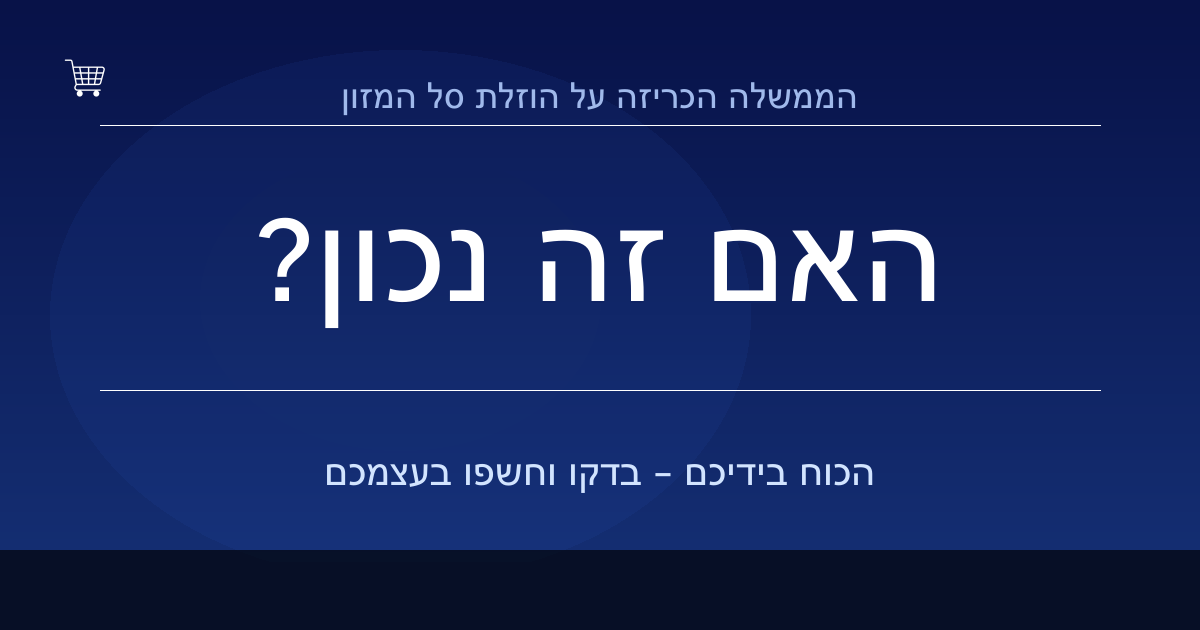
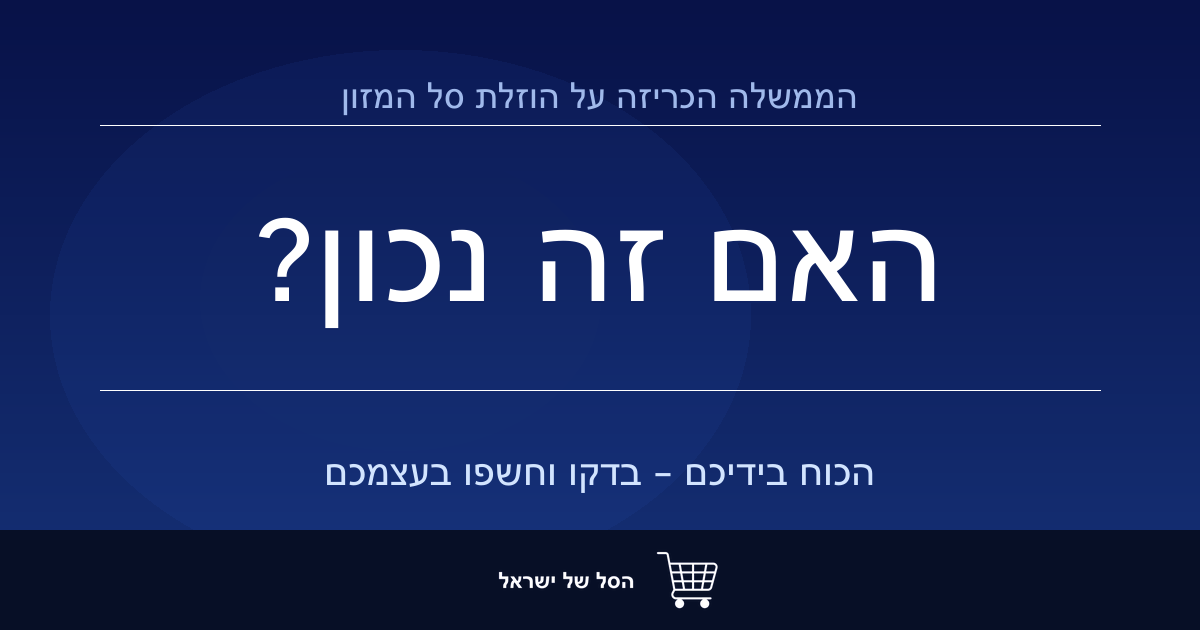
feat: pre-select Israel Basket account in analytics iframe via params

Changed region(s): [[0.0, 0.8143, 1.0, 0.9651], [0.4008, 0.9048, 0.5242, 0.9349], [0.0617, 0.0905, 0.0925, 0.1508]]

diff --git a/scripts/make_og_final.py b/scripts/make_og_final.py
@@ -84,18 +84,33 @@ def main():
     bg = (7, 15, 38, 255)
 
     # Paint over the bottom footer bar (URL text + separator, ~y=562 to bottom)
-    draw.rectangle([(0, 562), (w, h)], fill=bg)
+    # Extend bottom strip to 100px to give logo room
+    strip_y = 530
+    draw.rectangle([(0, strip_y), (w, h)], fill=bg)
 
-    # Cart icon — left of "המזון" on the top subtitle line, 48px
-    icon_size = 48
-    tmp_cart  = render_cart_png(icon_size, color="white")
-    cart_img  = Image.open(tmp_cart).convert("RGBA")
-    os.unlink(tmp_cart)
+    # Logo — bottom strip, centered; strip white background first
+    logo_src = f"{BASE}/docs/media/assets/logo-on-dark.png"
+    logo_raw = Image.open(logo_src).convert("RGBA")
 
-    # subtitle line center is ~y=78; icon left-margin 60px
-    paste_x = 60
-    paste_y = 78 - icon_size // 2
-    img.paste(cart_img, (paste_x, paste_y), cart_img)
+    # Make near-white pixels transparent
+    pixels = logo_raw.load()
+    lw, lh = logo_raw.size
+    for ly in range(lh):
+        for lx in range(lw):
+            r, g, b, a = pixels[lx, ly]
+            if r < 40 and g < 40 and b < 100:
+                pixels[lx, ly] = (r, g, b, 0)
+
+    # Scale to 80px height
+    target_h = 80
+    target_w  = int(lw * target_h / lh)
+    logo_img  = logo_raw.resize((target_w, target_h), Image.LANCZOS)
+
+    # Center horizontally, vertically centered in bottom strip
+    strip_h   = h - strip_y
+    paste_x   = (w - target_w) // 2
+    paste_y   = strip_y + (strip_h - target_h) // 2
+    img.paste(logo_img, (paste_x, paste_y), logo_img)
 
     final = img.convert("RGB")
     final.save(OUT, "PNG")
